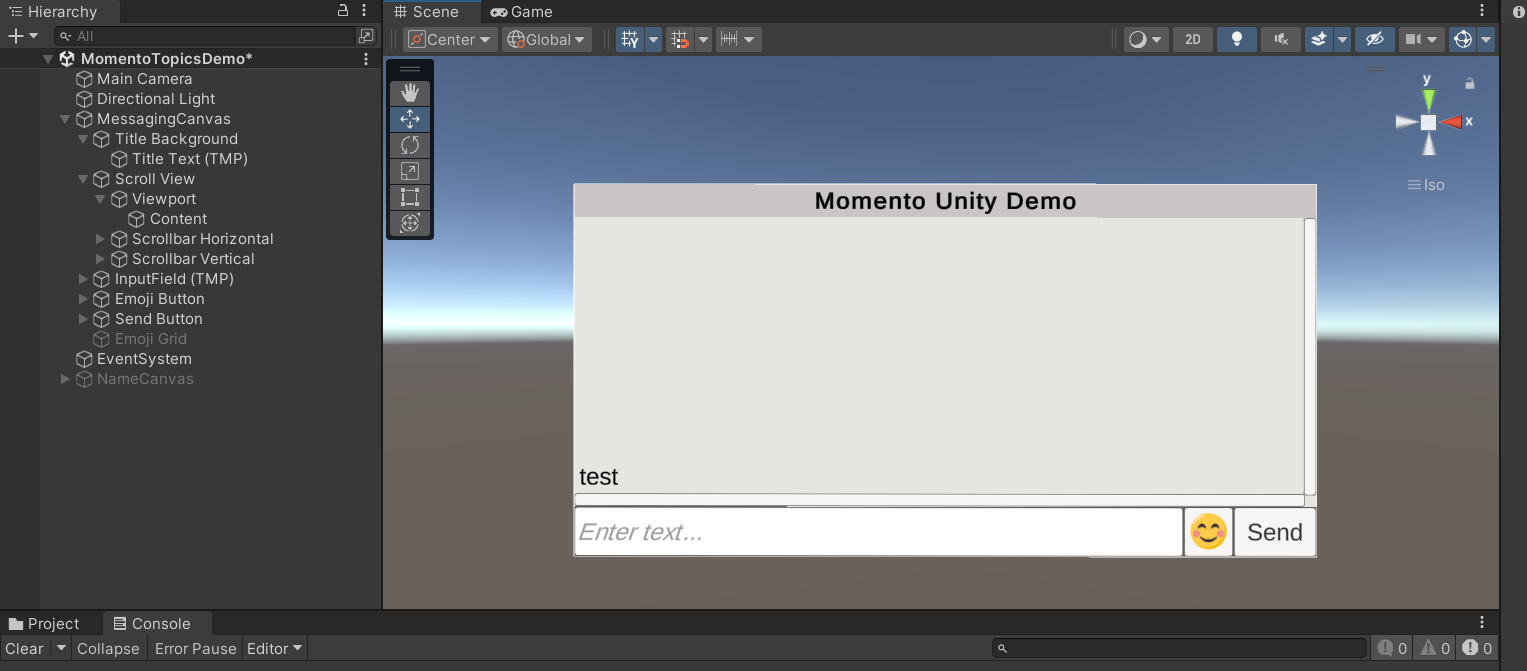
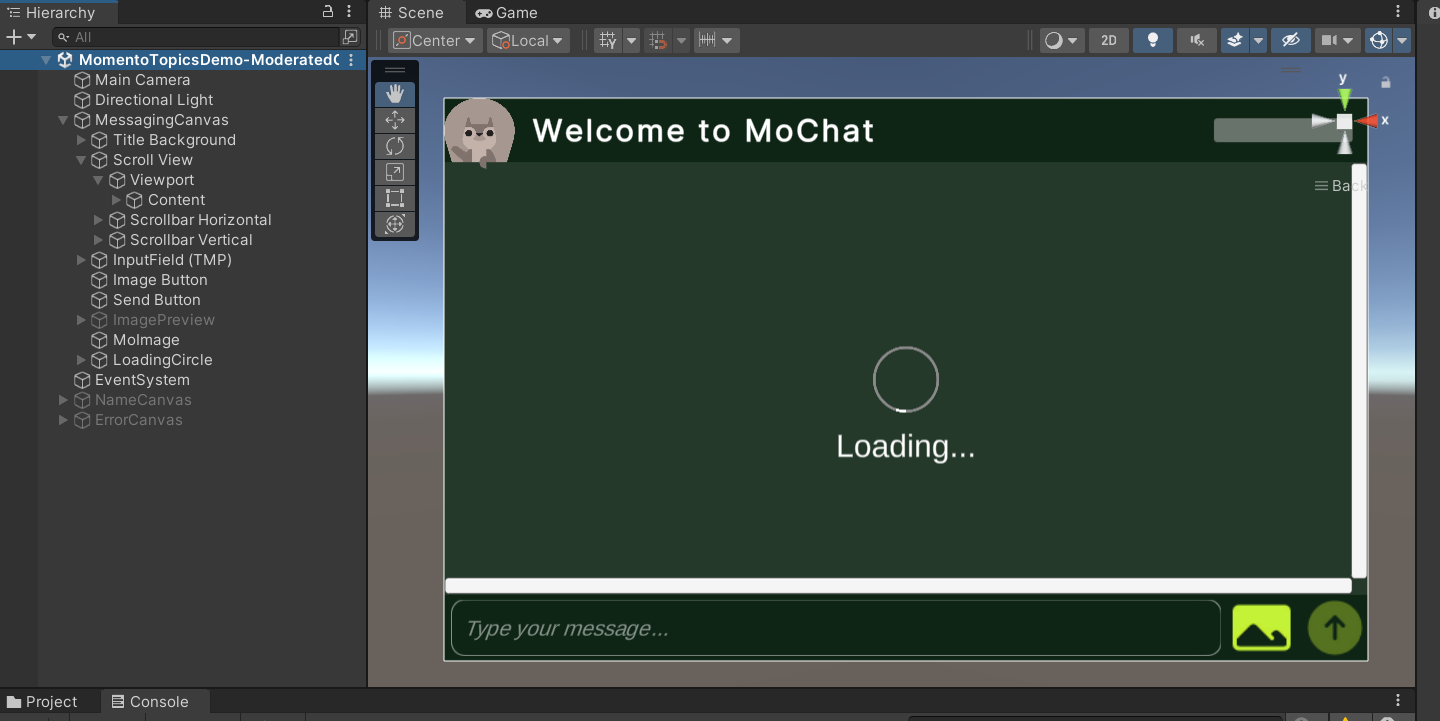
update unity integration for moderated chat demo (#755)

diff --git a/docs/cache/develop/integrations/unity-integration.md b/docs/cache/develop/integrations/unity-integration.md
@@ -17,9 +17,9 @@ Momento Topics is a serverless approach to real-time communication that allows c
 Download the [Unity 2022 LTS release](https://unity.com/releases/lts). In writing this tutorial, we specifically used Unity 2022.3.9f1 but any Unity 2022 LTS release should work.
 
 ### Momento
-While waiting for Unity to download and install, you can configure the Momento side of things using the [Momento console](https://console.gomomento.com). Note that this step may be unnecessary if you are already using a [Token Vending Machine](https://github.com/momentohq/client-sdk-javascript/tree/main/examples/nodejs/token-vending-machine) (see `MomentoTopicsDemo-TokenVendingMachine.unity` in [Example Scenes](#example-scenes) below for more information).
+While waiting for Unity to download and install, you can optionally configure the Momento side of things using the [Momento console](https://console.gomomento.com). _Note: this step is only necessary if you want to set up your own API Auth Token, which is NOT required for the rest of this tutorial since we'll utilize a [Token Vending Machine](https://github.com/momentohq/client-sdk-javascript/tree/main/examples/nodejs/token-vending-machine) that's already deployed as part of the main [Momento Moderated Chat](https://github.com/momentohq/moderated-chat/) application. However, in our [Unity demo repository](https://github.com/momentohq/momento-unity-demo), we include two extra Unity scenes where you can utilize your own Momento Topic; see [Example Scenes](#example-scenes) below for more information_.
 
-1. You can create an account in the console by providing your email address or linking an existing Google or GitHub account. 
+1. You can create an account in the [Momento console](https://console.gomomento.com) by providing your email address or linking an existing Google or GitHub account. 
 2. Once you've logged into the console, click the `Create Cache` button on the top right of the page:
 ![Create Cache button](/img/console-create-cache.png)
 
@@ -31,7 +31,7 @@ While waiting for Unity to download and install, you can configure the Momento s
 5. Navigate to the [tokens](https://console.gomomento.com/tokens) page, choose the cloud provider and region you used to create your cache, choose the `Super User Token` token type, and hit the `Generate API Key` button.
 ![Generate token](/img/console-generate-api-key.png)
 
-6. Copy the `API Key` and save it in a safe place. You'll need to use it later to configure your Unity chat application.
+6. Copy the `API Key` and save it in a safe place. You can use it later to configure your Unity chat application.
 ![Generated token](/img/console-api-key-result.png)
 
 ## Setting up the Unity Project
@@ -46,13 +46,13 @@ To use the Unity project in our example repository, complete the following steps
 ![New Unity Project](/img/unity/hub-new-project.png)
 4. Then choose the cloned folder.
 5. If using a version other than Unity 2022.3.9f1, you may need to let Unity change the project's editor version appropriately.
-6. Once the Unity project is loaded, open the `Scenes/MomentTopicsDemo.unity` scene file.
+6. Once the Unity project is loaded, open the `MomentoTopicsDemo-ModeratedChat.unity` scene file. In the project, there are several scene files that show varying levels of functionality. The "Moderated Chat" scene provides a Unity client of the main [Momento Moderated Chat](https://github.com/momentohq/moderated-chat/) application; see also the blog post on [How to use webhooks and Momento Topics to build a multi-language chat app](https://www.gomomento.com/blog/how-to-use-webhooks-and-momento-topics-to-build-a-multi-language-chat-app).
 
 The rest of this tutorial will utilize our example repository.
 
 ### Adding the Momento .NET SDK to Unity
 Once the project has finished being opened:
-1. Download the latest [MomentoSdkUnity release .zip file](https://github.com/momentohq/client-sdk-dotnet/releases). For example, for the [v1.23.0 release](https://github.com/momentohq/client-sdk-dotnet/releases/tag/v1.23.0), you would download [MomentoSdkUnity-1.23.0.zip](https://github.com/momentohq/client-sdk-dotnet/releases/download/v1.23.0/MomentoSdkUnity-1.23.0.zip). This .zip file contains a special version of the Momento .NET SDK that utilizes gRPC-Web due to HTTP/2 compatibility limitations in Unity. Required DLL dependencies are also included in the zip. 
+1. Download the latest [MomentoSdkUnity release .zip file](https://github.com/momentohq/client-sdk-dotnet/releases). For example, for the [v1.31.1 release](https://github.com/momentohq/client-sdk-dotnet/releases/tag/v1.31.1), you would download [MomentoSdkUnity-1.31.1.zip](https://github.com/momentohq/client-sdk-dotnet/releases/download/v1.31.1/MomentoSdkUnity-1.31.1.zip). This .zip file contains a special version of the Momento .NET SDK that utilizes gRPC-Web due to HTTP/2 compatibility limitations in Unity. Required DLL dependencies are also included in the zip. 
 4. Unzip its contents inside the folder `Assets/MomentoSdkUnity`. 
 
 ## Building the Unity Chat Application with Momento Topics
@@ -61,7 +61,7 @@ Once you get to this step, you are ready to start building the user interface an
 In this tutorial, we'll utilize the already existing example code in the cloned repository and in the following two sections we'll give an overview of how the UI and C# code is setup.
 
 ### Understanding the User Interface
-In our example project, the user interface is already built out into two separate [Unity UI Canvas](https://docs.unity3d.com/Packages/com.unity.ugui@1.0/manual/UICanvas.html) elements, one for letting the user choose a name and one for the actual text chat.
+In our example project, the user interface is already built out into three separate [Unity UI Canvas](https://docs.unity3d.com/Packages/com.unity.ugui@1.0/manual/UICanvas.html) elements, one for letting the user choose a name, one for the actual chat UI, and one for any communicating errors to the user.
 
 As shown below, the NameCanvas contains a [TextMeshPro](https://docs.unity3d.com/Packages/com.unity.textmeshpro@3.0/) input field and a "Start" button. 
 
@@ -73,27 +73,27 @@ The MessagingCanvas contains a [Scroll View](https://docs.unity3d.com/Packages/c
 
 ![MessagingCanvas](/img/unity/MessagingCanvas.png)
 
-The MessagingCanvas also has an emoji button that allows the user to view available emojis and to add emojis to the chat:
+The MessagingCanvas also has several additional features to complete the Unity moderated chat client:
+- a dropdown select menu in the top-right of the UI to allow the user to switch between various language translations
+- a loading circle animation in the center of the view that appears when we're loading the chat application
+- an image button in the bottom-right that utilizes the third-party [UnityStandaloneFileBrowser](https://github.com/gkngkc/UnityStandaloneFileBrowser) to allow the user to load images from their computer to send in a chat message
 
-![Demo Video](/img/unity/emojis.png)
+### Example Scenes
+In the example code, we provide four example Unity scenes, showcasing various ways to integrate the Momento SDK with Unity. The first two require ensuring the `MOMENTO_AUTH_TOKEN` environment variable is set, or copying and pasting your auth token into `Assets/Scripts/TopicsTest.cs` (or `Assets/Scripts/TopicsTestCoroutine.cs`) replacing `ADD_YOUR_TOKEN_HERE` in the `ReadAuthToken()` function (hard-coding your auth token in code is not recommended but can be used for testing purposes if necessary).
+- `MomentoTopicsDemo.unity` (using `TopicsTest.cs`): utilizes `Task.Run()` to run the subscription to the Momento Topic in a background thread. This is the approach descirbed above. This code is based upon the [Momento .NET SDK Topic Example](https://github.com/momentohq/client-sdk-dotnet/tree/main/examples/TopicExample).
+- `MomentoTopicsDemo-Coroutine.unity` (using `TopicsTestCoroutine.cs`): identical to the previous scene except that it utilizes Unity Coroutines to run the subscription asyncronously in the main thread.
+- `MomentoTopicsDemo-TokenVendingMachine.unity` (using `TopicsTestTokenVendingMachine.cs`): utilizes the example [Momento Token Vending Machine](https://github.com/momentohq/client-sdk-javascript/tree/main/examples/nodejs/token-vending-machine) to obtain a temporary, restricted scope Momento auth token. This is beneficial because (1) we no longer need to hard-code in a specific auth token into the app, and (2) we can utilize a `tokenId` embedded in the Topics message to more securely know which client/username sent a specific message. Note that you'll need to explicitly setup the Token Vending Machine separately and then specify its URL via the `tokenVendingMachineURL` variable specified in `TopicsTestTokenVendingMachine.cs`.
+- `MomentoTopicsDemo-ModeratedChat.unity` (using `ModeratedChat.cs` along with some helper scripts): utilizes the publicly deployed Momento moderated chat demo backend (see https://github.com/momentohq/moderated-chat/tree/main and https://chat.gomomento.com/) to connect to the public chat demo. Since this is a client to that chat, most of the C# code follows from the Javascript [frontend web client](https://github.com/momentohq/moderated-chat/tree/main/frontend) that already exists.
 
-A helper C# script `EmojiHelper.cs` is used to handle the emoji insertion.
+### (optional) Adding in the Momento API key
+As mentioned above in [Example Scenes](#example-scenes), in some situations we may need to set up the auth token in our Unity project. We'll use `Assets/Scripts/TopicsTest.cs` for an example.
 
-### Setting up the C# script that subscribes to the Momento Topic
-In our example code, the magic happens in `Assets/TopicsTest.cs`, which is based upon the [Momento .NET SDK Topic Example](https://github.com/momentohq/client-sdk-dotnet/tree/main/examples/TopicExample).
-
-The first thing we need to do is to let our C# script know about the API key we created above in the [Momento Prerequisite](#momento) step. Following the [Momento .NET SDK Topic Example](https://github.com/momentohq/client-sdk-dotnet/tree/main/examples/TopicExample), we can either grab the API key from an environment variable or hard-code the API key in our code (note that hard-coding your API key in code is NOT recommended but can be used for testing purposes, if necessary; an alternative approach using a [Token Vending Machine](https://github.com/momentohq/client-sdk-javascript/tree/main/examples/nodejs/token-vending-machine) is described below in [Example Scenes](#example-scenes)):
+The first thing we need to do is to let our C# script know about the API key we created above in the [Momento Prerequisite](#momento) step. Following the [Momento .NET SDK Topic Example](https://github.com/momentohq/client-sdk-dotnet/tree/main/examples/TopicExample), we can either grab the API key from an environment variable or hard-code the API key in our code (note that hard-coding your API key in code is NOT recommended but can be used for testing purposes, if necessary; an alternative approach using a [Token Vending Machine](https://github.com/momentohq/client-sdk-javascript/tree/main/examples/nodejs/token-vending-machine) is described above in [Example Scenes](#example-scenes)):
 - To set the environment variable in Windows, click the Windows Start button, search for "environment" and click on "Edit the system environment variables." Then click on "Environment Variables" and ensure the `MOMENTO_API_KEY` environment variable is set. You may need to restart Unity to get it to recognize your newly created environment variable.
-- To hard-code the API key in a C# script, copy and paste your API key into `Assets/TopicsTest.cs` replacing `ADD_YOUR_TOKEN_HERE` in the `ReadAuthToken()` function.
+- To hard-code the API key in a C# script, copy and paste your API key into `Assets/Scripts/TopicsTest.cs` replacing `ADD_YOUR_TOKEN_HERE` in the `ReadAuthToken()` function.
 
 After the API key is appropriately set, you can go ahead and click on the "Play" button in the Unity Editor to test it out! 
 
-### Example Scenes
-In the example code, we provide three example Unity scenes, showcasing various ways to integrate the Momento SDK with Unity:
-- `MomentoTopicsDemo.unity` (using `TopicsTest.cs`): utilizes `Task.Run()` to run the subscription to the Momento Topic in a background thread. This is the approach descirbed above.
-- `MomentoTopicsDemo-Coroutine.unity` (using `TopicsTestCoroutine.cs`): utilizes Unity Coroutines to run the subscription asyncronously in the main thread.
-- `MomentoTopicsDemo-TokenVendingMachine.unity` (using `TopicsTestTokenVendingMachine.cs`): utilizes the example [Momento Token Vending Machine](https://github.com/momentohq/client-sdk-javascript/tree/main/examples/nodejs/token-vending-machine) to obtain a temporary, restricted scope Momento auth token. This is beneficial because (1) we no longer need to hard-code in a specific auth token into the app, and (2) we can utilize a `tokenId` embedded in the Topics message to more securely know which client/username sent a specific message. Note that you'll need to explicitly setup the Token Vending Machine separately and then specify its URL via the `tokenVendingMachineURL` variable specified in `TopicsTestTokenVendingMachine.cs`.
-
 ## Conclusion
 
-In conclusion, to integrate Momento with Unity is as simple as downloading the latest [MomentoSdkUnity release .zip file](https://github.com/momentohq/client-sdk-dotnet/releases) and unzipping it anywhere within your Unity `Assets` folder. In this tutorial, we took it a step further and demonstrated how to set up a simple chat user interface that connects to a Momento Topic for easy publishing of messages and subscribing to messages. 
+In conclusion, to integrate Momento with Unity is as simple as downloading the latest [MomentoSdkUnity release .zip file](https://github.com/momentohq/client-sdk-dotnet/releases) and unzipping it anywhere within your Unity `Assets` folder. In this tutorial, we took it a step further and demonstrated how to set up a simple chat user interface that connects to a Momento Topic for easy publishing of messages and subscribing to messages. Specifically, we demonstrated a Unity client to the publicly deployed moderated chat application https://chat.gomomento.com/.
